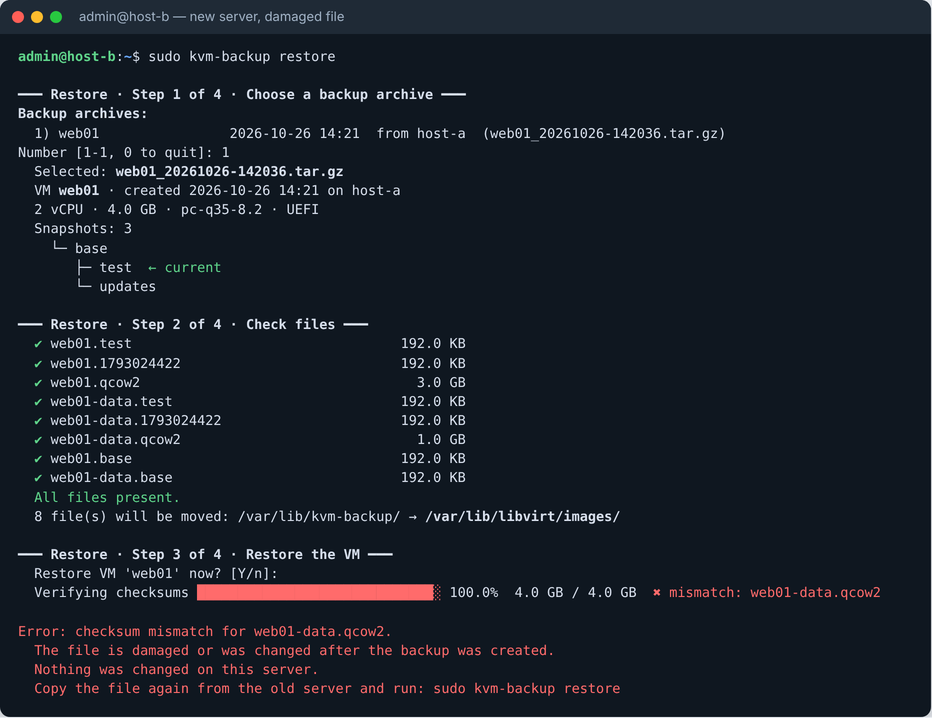
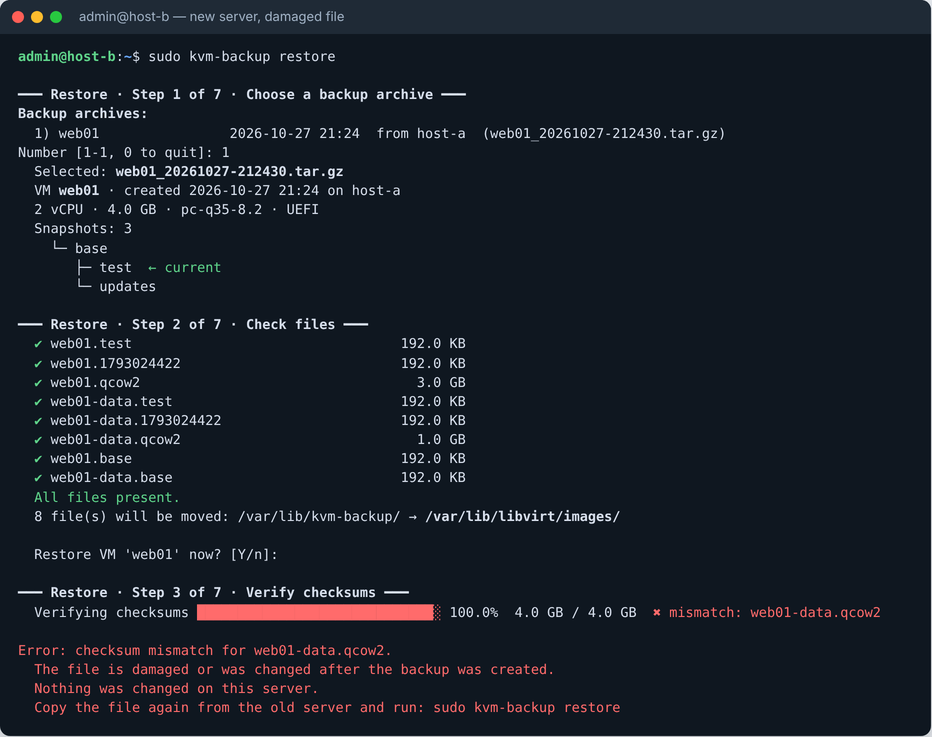
Split backup and restore into confirmed steps
Backup (6 steps): the old step 4 is now three steps (prepare the new server,
copy the files, start the restore), each confirmed with Enter. Step 4 also
shows how to install curl if it is missing.

Restore (7 steps): checksums, placing files, creating the VM and restoring
snapshots are separate steps with a short result and a pause; entering 0
cancels and rolls back. Ctrl+C during a restore now rolls back as well.

Claude-Session: https://claude.ai/code/session_01B6oZBxwDXgi735Z33Mo7zh

diff --git a/kvmbackup/cli.py b/kvmbackup/cli.py
@@ -94,12 +94,24 @@ class Bar:
 class TermJob:
     """Progress reporter used by backup/restore: step/log/bytes_progress/result."""
 
-    def __init__(self):
+    def __init__(self, mode="", total=0, confirm=True):
         self.result = None
         self.user = os.environ.get("SUDO_USER") or "root"
         self.created = time.time()
         self.step_text = ""
         self.progress = 0
+        self.mode, self.total, self.confirm = mode, total, confirm
+        self._started = False
+
+    def phase(self, n, title):
+        """Numbered step; from the second one on, wait for Enter before starting it."""
+        if self._started and self.confirm and not pause():
+            raise JobError("Cancelled. All changes made by this restore were rolled back.")
+        self._started = True
+        step(self.mode, n, self.total, title)
+
+    def done(self, text):
+        print(ok("  " + text))
 
     def step(self, text, progress=None):
         print(f"  • {text}")
@@ -210,7 +222,7 @@ def cmd_backup(vm, assume_yes, checksums):
     if not vms:
         raise JobError("There are no virtual machines on this server.")
 
-    step("Backup", 1, 4, "Choose a virtual machine")
+    step("Backup", 1, 6, "Choose a virtual machine")
     if not vm:
         states = {n: virt.domain_state(n) for n in vms}
         vm = choose("Virtual machines on this server:", vms, lambda n: f"{n:<24} {st(states[n])}")
@@ -220,7 +232,7 @@ def cmd_backup(vm, assume_yes, checksums):
         raise JobError(f"VM '{vm}' not found. Available: {', '.join(vms)}")
     print(f"  Selected: {bold(vm)}")
 
-    step("Backup", 2, 4, f"Review VM '{vm}'")
+    step("Backup", 2, 6, f"Review VM '{vm}'")
     a = backup.analyse(vm)
     print(f"  State: {st(a['state'])} · {a['vcpu']} vCPU · {human(int(a['memory_kib'] or 0) * 1024)}"
           f" · {'UEFI' if a['nvram'] else 'BIOS'}{' · vTPM' if a['tpm'] else ''}")
@@ -249,7 +261,7 @@ def cmd_backup(vm, assume_yes, checksums):
         print("Cancelled.")
         return 1
 
-    step("Backup", 3, 4, "Create the backup")
+    step("Backup", 3, 6, "Create the backup")
     job = TermJob()
     backup.run_backup(job, vm, opts)
     res = job.result
@@ -263,23 +275,48 @@ def cmd_backup(vm, assume_yes, checksums):
             print("  " + warn("⚠ " + err))
 
     dest = config.get()["backup_root"]
-    step("Backup", 4, 4, "Move the files to the new server")
     cmd = install_command()
-    if cmd in (None, "local"):
-        print("  a) Copy the kvm-backup folder to the new server (for example to your home directory)")
-        print("     and install it there; this creates the target directory and opens the menu:")
-        install = "sudo bash ~/kvm-backup/install.sh"
-        print(f"       {bold(install)}")
-        print(f"     In the menu choose {bold('2) Restore a VM')}; it will wait until the files are copied.")
-    else:
-        install = cmd
-    if cmd not in (None, "local"):
-        print("  a) Prepare the new server: run this command there. It installs kvm-backup,")
-        print(f"     creates {dest}/ and opens the menu:")
-        print(f"       {bold(install)}")
-        print(f"     In the menu choose {bold('2) Restore a VM')}; it will wait until the files are copied.")
+    local = cmd in (None, "local")
+    install = "sudo bash ~/kvm-backup/install.sh" if local else cmd
+
+    def confirm(prompt):
+        """Wait for Enter; on Ctrl+C or end of input remove the temporary access and stop."""
+        if assume_yes:
+            return True
+        try:
+            input(f"  {prompt} ")
+            return True
+        except (KeyboardInterrupt, EOFError):
+            print()
+            for e in fsutil.revoke_acl(acl):
+                print("  " + warn("⚠ " + e))
+            print(warn("  Interrupted. Temporary WinSCP access was removed."))
+            print(f"  The archive is kept: {archive}")
+            return False
+
+    # Step 4: prepare the new server
+    step("Backup", 4, 6, "Prepare the new server")
+    print(warn(f"  ⚠ Keep VM '{vm}' shut off until step 5 is finished."))
     print()
-    print(f"  b) Copy these files with WinSCP to {bold(dest + '/')} on the new server:")
+    if local:
+        print("  Copy the kvm-backup folder to the new server (for example to your home directory)")
+        print("  and run there:")
+        print(f"    {bold(install)}")
+    else:
+        print("  On the new server, run:")
+        print(f"    {bold(install)}")
+        print(f"  If it fails with {bold('-bash: curl: command not found')}, install curl first and run it again:")
+        print(f"    {bold('sudo apt install -y curl')}")
+    print(f"  This installs kvm-backup, creates {bold(dest + '/')} and opens the menu.")
+    print(f"  In the menu choose {bold('2) Restore a VM')}; it will wait until the files are copied.")
+    print()
+    if not confirm("Press Enter when kvm-backup is installed on the new server:"):
+        return 1
+    print(ok("  ✔ New server prepared."))
+
+    # Step 5: copy the files
+    step("Backup", 5, 6, "Copy the files")
+    print(f"  Copy these files with WinSCP to {bold(dest + '/')} on the new server:")
     print()
     print(f"     from {bold(os.path.dirname(archive) + '/')}")
     print(f"       {os.path.basename(archive):<40} {human(os.path.getsize(archive)):>10}   configuration archive")
@@ -291,37 +328,31 @@ def cmd_backup(vm, assume_yes, checksums):
             print(f"       {os.path.basename(e['original_path']):<40} {human(e['size']):>10}{opt}{rename}")
     print(f"     Total: {len(m['files']) + 1} files, {human(m['total_size'] + os.path.getsize(archive))}")
     print()
-    print("  c) Start the restore on the new server:")
-    print(f"     if the menu from step a) is still waiting there, just press {bold('Enter')}.")
-    print("     Otherwise run the command below and choose " + bold("2) Restore a VM") + ":")
-    print("       if kvm-backup is not installed yet:")
-    print(f"         {bold(install)}")
-    print("       if it is already installed:")
-    print(f"         {bold('sudo kvm-backup')}")
-    print()
     print(bad(f"  ⚠ Do NOT start VM '{vm}' until all files are copied."))
     print(bad("    Starting it changes the disk files, and the copy on the new server will not match."))
     print()
-
-    if assume_yes:
-        print("  -y mode: no temporary WinSCP access was granted.")
-        return 0
-    try:
-        input("  Press Enter when copying is finished: ")
-    except (KeyboardInterrupt, EOFError):
-        print()
-        print("  Interrupted.")
+    if not confirm("Press Enter when all files are copied:"):
+        return 1
     for e in fsutil.revoke_acl(acl):
         print("  " + warn("⚠ " + e))
     if virt.domain_state(vm) != "shut off":
-        print(bad(f"  ✖ VM '{vm}' was started before you pressed Enter."))
+        print(bad(f"  ✖ VM '{vm}' was started before copying finished."))
         print(bad("    If it was running while files were copied, the copy may be inconsistent:"))
         print(bad("    the restore will report a checksum mismatch. In that case shut the VM down"))
         print(bad("    and run the backup again."))
         print(warn("  Backup finished with a warning."))
         return 1
-    print(ok(f"  ✔ VM '{vm}' stayed shut off during copying."))
-    print(f"  You can start it now: Cockpit → Virtual machines, or: {bold(f'sudo virsh start {vm}')}")
+    print(ok(f"  ✔ Files copied. VM '{vm}' stayed shut off; temporary WinSCP access removed."))
+
+    # Step 6: start the restore
+    step("Backup", 6, 6, "Start the restore on the new server")
+    print(f"  If the menu from step 4 is still waiting on the new server, press {bold('Enter')} there.")
+    print("  Otherwise run on the new server:")
+    print(f"    {bold('sudo kvm-backup restore')}")
+    print("  The new server checks every file and shows the restore result.")
+    print()
+    print(f"  VM '{vm}' on this server can be started again: Cockpit → Virtual machines, or: "
+          f"{bold(f'sudo virsh start {vm}')}")
     print(ok("  Backup finished."))
     return 0
 
@@ -376,6 +407,15 @@ def find_archives(root):
     return [(p, m) for p, m in ((p, peek_manifest(p)) for p in paths) if m]
 
 
+def pause():
+    """Wait for Enter after a finished step. False when the user enters 0."""
+    print()
+    try:
+        return input("  Press Enter to continue, or 0 to cancel: ").strip() != "0"
+    except EOFError:
+        return False
+
+
 def wait_enter(prompt):
     """True to retry, False to quit."""
     try:
@@ -408,7 +448,7 @@ def show_check(p):
 def cmd_restore(archive, assume_yes, verify):
     root = config.get()["backup_root"]
 
-    step("Restore", 1, 4, "Choose a backup archive")
+    step("Restore", 1, 7, "Choose a backup archive")
     if not archive:
         while True:
             found = find_archives(root)
@@ -441,7 +481,7 @@ def cmd_restore(archive, assume_yes, verify):
         if m["snapshots"]:
             snap_tree(m["snapshots"], m.get("current_snapshot"), "    ")
 
-        step("Restore", 2, 4, "Check files")
+        step("Restore", 2, 7, "Check files")
         import_dir = os.path.dirname(archive)
         while True:
             p = restore.plan(m, bdir, {"import_dir": import_dir})
@@ -461,18 +501,20 @@ def cmd_restore(archive, assume_yes, verify):
         for (src, dst), n in moves.items():
             print(f"  {n} file(s) will be moved: {src}/ → {bold(dst + '/')}")
 
-        step("Restore", 3, 4, "Restore the VM")
+        print()
         if not ask(f"  Restore VM '{p['name']}' now?", True, assume_yes):
             print("Cancelled.")
             return 1
-        job = TermJob()
+        job = TermJob("Restore", 7, confirm=not assume_yes)
         restore.run_restore(job, m, bdir, p, {"verify": verify})
         r = job.result
     finally:
         shutil.rmtree(work, ignore_errors=True)
 
     name = r["vm"]
-    step("Restore", 4, 4, "Result")
+    if not assume_yes:
+        pause()
+    step("Restore", 7, 7, "Result")
     print(ok(f"  VM '{name}' restored."))
     dom = ET.fromstring(virt.domain_xml(name))
     print("  Disks:")

diff --git a/kvmbackup/restore.py b/kvmbackup/restore.py
@@ -232,6 +232,9 @@ def run_restore(job, m, bdir, p, opts):
 
     try:
         # 1. Checksums
+        _phase(job, 3, "Verify checksums")
+        if not opts.get("verify", True) or not any(mf[f["name"]].get("sha256") for f in files):
+            job.log("⚠ Checksums are not verified (skipped or not stored in the archive).")
         if opts.get("verify", True):
             todo = [f for f in files if mf[f["name"]].get("sha256")]
             if todo:
@@ -249,26 +252,28 @@ def run_restore(job, m, bdir, p, opts):
                     prog.finish("all files match")
 
         # 2. Place files
+        _phase(job, 4, "Place disk files")
         path_map = {}
+        placed = {}
         copy_total = sum(f["size"] for f in files if f["action"] == "copy")
         prog = job.bytes_progress(copy_total, 35, 70, "Copying disks")
-        job.step("Placing disk files", 35)
         for f in files:
             src, dst = f["source"], f["dest"]
             path_map[f["original_path"]] = dst
             if f["action"] == "on-place":
+                placed.setdefault(("already in place in", os.path.dirname(dst)), []).append(f["name"])
                 continue
             _mkdirs(os.path.dirname(dst))
             if f["action"] == "rename":
                 os.rename(src, dst)
                 rb.add(f"move {f['name']}", lambda s=src, d=dst: os.rename(d, s))
-                job.log(f"{f['name']} → {os.path.dirname(dst)}/")
+                placed.setdefault(("moved to", os.path.dirname(dst)), []).append(f["name"])
             else:
                 part = dst + ".part"
                 rb.add(f"copy {f['name']}", lambda d=dst, pt=part: [os.remove(x) for x in (d, pt) if os.path.exists(x)])
                 fsutil.copy_sparse(src, part, lambda n, b=f["name"]: prog(n, b))
                 os.rename(part, dst)
-                job.log(f"{f['name']} → {os.path.dirname(dst)}/ (copied)")
+                placed.setdefault(("copied to", os.path.dirname(dst)), []).append(f["name"])
                 if opts.get("mode", "move") == "move":
                     to_delete_after.append(src)
             os.chown(dst, 0, 0)
@@ -282,8 +287,11 @@ def run_restore(job, m, bdir, p, opts):
 
         if copy_total and hasattr(prog, "finish"):
             prog.finish("copied")
+        for (how, d), names in placed.items():
+            _done(job, f"✔ {len(names)} file(s) {how} {d}/")
 
         # 3. Backing file chains
+        _phase(job, 5, "Create the VM")
         job.step("Updating links between disk files", 71)
         for f in files:
             e = mf[f["name"]]
@@ -298,7 +306,6 @@ def run_restore(job, m, bdir, p, opts):
                 virt.qemu_img_rebase_unsafe(f["dest"], new_backing, e.get("backing_format"))
                 rb.add(f"rebase {f['name']}", lambda d=f["dest"], r=raw, fm=e.get("backing_format"):
                        virt.qemu_img_rebase_unsafe(d, r, fm))
-                job.log(f"{f['name']}: backing file → {new_backing}")
 
         # 4. NVRAM and TPM
         ctx = {"path_map": path_map, "volume_map": m.get("volume_map") or {},
@@ -389,9 +396,12 @@ def run_restore(job, m, bdir, p, opts):
             fh.write(xmlutil.tostring(dom))
         virt.virsh("define", dfile)
         rb.add(f"VM {name}", lambda: _undefine(name))
-        job.log(f"VM '{name}' defined")
+        _done(job, f"✔ VM '{name}' defined in libvirt")
 
         # 8. Snapshots (parents before children, which preserves branches)
+        _phase(job, 6, "Restore snapshots")
+        if not snap_xml:
+            job.log("The VM has no snapshots.")
         total = max(len(snap_xml), 1)
         for i, (s, x) in enumerate(snap_xml):
             job.step(f"Restoring snapshot '{s['name']}' ({i + 1}/{len(snap_xml)})", 86 + 11 * i / total)
@@ -402,7 +412,9 @@ def run_restore(job, m, bdir, p, opts):
             virt.virsh("snapshot-create", name, "--xmlfile", sf, "--redefine")
         if m.get("current_snapshot"):
             virt.virsh("snapshot-current", name, m["current_snapshot"])
-            job.log(f"Current snapshot: {m['current_snapshot']}")
+            _done(job, f"✔ {len(snap_xml)} snapshot(s) restored, current: {m['current_snapshot']}")
+        elif snap_xml:
+            _done(job, f"✔ {len(snap_xml)} snapshot(s) restored")
 
         if opts.get("autostart", True) and m["vm"].get("autostart"):
             virt.virsh("autostart", name, check=False)
@@ -410,7 +422,7 @@ def run_restore(job, m, bdir, p, opts):
         for pn, d in virt.pools().items():
             if d in {os.path.dirname(f["dest"]) for f in files}:
                 virt.virsh("pool-refresh", pn, check=False)
-    except Exception:
+    except BaseException:
         if rb.actions:
             job.log("Error, rolling back changes…")
             rb.run()
@@ -425,6 +437,21 @@ def run_restore(job, m, bdir, p, opts):
             job.log(f"⚠ Could not delete {src}: {e}")
     job.result = {"vm": name, "files": files, "snapshots": len(snap_xml),
                   "current": m.get("current_snapshot"), "nvram": ctx.get("nvram"), "warnings": warns}
+
+
+def _phase(job, n, title):
+    """Start a numbered restore step (the terminal UI may ask to continue first)."""
+    if hasattr(job, "phase"):
+        job.phase(n, title)
+    else:
+        job.step(title)
+
+
+def _done(job, text):
+    if hasattr(job, "done"):
+        job.done(text)
+    else:
+        job.log(text)
 
 
 def _mkdirs(path):

diff --git a/README.md b/README.md
@@ -39,17 +39,26 @@ Running the install command again updates kvm-backup to the latest version and a
 
 ## Back up (old server)
 
-1. Choose a virtual machine.
-2. Review it (state, snapshot tree, disk files). A running VM is never shut down by the tool: it asks you to shut it down and checks again.
-3. A SHA-256 checksum of every disk and snapshot file is calculated, and the configuration is saved to a single archive: `/var/lib/kvm-backup/<VM>_<date>.tar.gz`.
-4. The tool prints the install command for the new server, every file to copy with its source directory, the target directory on the new server (`/var/lib/kvm-backup/`) and what to run there. Copy the files with WinSCP while the VM stays shut off, then press Enter: temporary read access is removed and the tool reports whether the VM stayed off.
+Each step shows its result; the next one starts after you confirm with Enter.
+
+1. **Choose a virtual machine.**
+2. **Review the VM** (state, snapshot tree, disk files). A running VM is never shut down by the tool: it asks you to shut it down and checks again.
+3. **Create the backup.** A SHA-256 checksum of every disk and snapshot file is calculated, and the configuration is saved to a single archive: `/var/lib/kvm-backup/<VM>_<date>.tar.gz`.
+4. **Prepare the new server.** The tool prints the install command to run there (and `sudo apt install -y curl` in case `curl` is missing).
+5. **Copy the files.** The tool lists every file with its source directory and the target directory on the new server (`/var/lib/kvm-backup/`). Copy them with WinSCP while the VM stays shut off; after Enter, temporary read access is removed and the tool reports whether the VM stayed off.
+6. **Start the restore on the new server.**
 
 ## Restore (new server)
 
-1. Choose a backup archive from `/var/lib/kvm-backup/` (the tool waits if nothing has been copied yet).
-2. Every file listed in the archive is checked for presence and size; missing files are listed and the check can be repeated after copying them.
-3. After confirmation, checksums are verified, disks are moved to their original paths and the VM is recreated with all snapshots.
-4. The result is shown: disks, snapshot tree, current snapshot, VM state. The VM appears in Cockpit, ready to start.
+Each step shows its result; the next one starts after you confirm with Enter (or enter 0 to cancel and roll back all changes).
+
+1. **Choose a backup archive** from `/var/lib/kvm-backup/` (the tool waits if nothing has been copied yet).
+2. **Check files.** Every file listed in the archive is checked for presence and size; missing files are listed and the check can be repeated after copying them.
+3. **Verify checksums.**
+4. **Place disk files** at their original paths.
+5. **Create the VM** in libvirt (links between disk files, NVRAM, networks, storage pool).
+6. **Restore snapshots**, including branches and the current snapshot.
+7. **Result:** disks, snapshot tree, current snapshot, VM state. The VM appears in Cockpit, ready to start.
 
 ## Checksums
 
